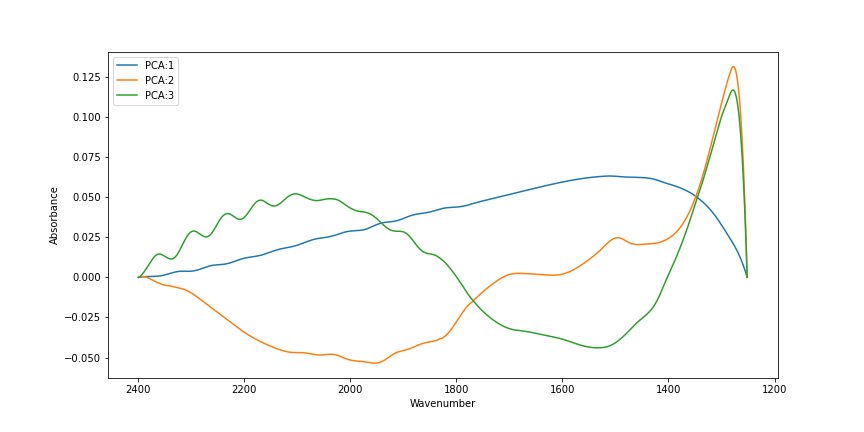
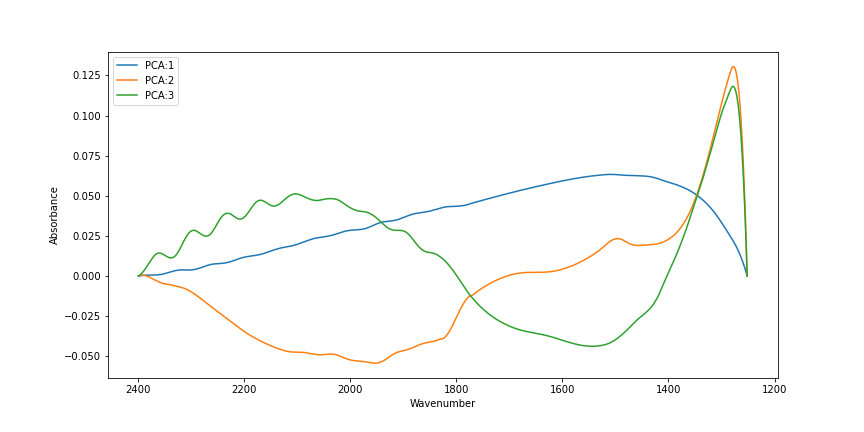
Adjusting fit on water peak replacement baseline

diff --git a/PCA_Baseline_vs_H20.py b/PCA_Baseline_vs_H20.py
@@ -124,7 +124,7 @@ ax.invert_xaxis()
 ax.set_xlabel('Wavenumber')
 ax.set_ylabel('Absorbance')
 #%%
-#Data = Smoothed
+Data = Smoothed
 # %%
 # Calculates the Principle components
 pca = PCA(4, ) # Number of PCA vectors to calculate 
@@ -203,7 +203,8 @@ ax.set_ylabel('Absorbance')
 plt.savefig('PCA1_plot.png')
 
 # %%
-columns = ["PCA "+ str(x) for x in range(1,11)]
+# This needs to be rewritten to work with water removed peaks
+columns = ["PCA "+ str(x) for x in range(1,4)]
 PCA_reduced_data_df = pd.DataFrame(reduced_data, index = frame.columns,columns=columns )
 
 chem_data_path = '/Users/henry/Python Files/Basalt Carbonate Baselines/Dans_Baselinefiles/Databasefiles/mi_data_select.csv'
@@ -259,7 +260,7 @@ def H2O_peak_cut(df, wn_cut_low, wn_cut_high, return_DF = False):
     return  No_Peaks_Wn, No_Peaks_Data
 
 # %%
-wn_cut_low, wn_cut_high = (1550, 1750)
+wn_cut_low, wn_cut_high = (1500, 1800)
 
 Full_No_Peaks_Wn, Full_No_Peaks_Values = H2O_peak_cut(H2O_frame_select, wn_cut_low, wn_cut_high)
 
@@ -367,7 +368,7 @@ for spec in Full_No_Peaks_Values.T:
 
 # %%
 
-spec_idx = 5
+spec_idx = 10
 
 fig, ax = plt.subplots(figsize = (12,6))
 plt.plot(Wavenumber, No_H2O_baseline[spec_idx], label= "No Water Baseline")
@@ -381,11 +382,11 @@ ax.set_ylabel('Absorbance')
 
 # %%
 
-No_H2O_baseline_df = pd.DataFrame(np.array(No_H2O_baseline)[:,:,0].T, index = Wavenumber[0], columns= H2O_frame_select.columns)
+No_H2O_baseline_df = pd.DataFrame(np.array(No_H2O_baseline)[:,:,0].T, index = Wavenumber, columns= H2O_frame_select.columns)
 
 H2O_Peaks = H2O_frame_select - No_H2O_baseline_df
 
-cutout = No_H2O_baseline_df[1500:1800]
+cutout = No_H2O_baseline_df[wn_cut_low:wn_cut_high]
 
 smooth_cutout = np.apply_along_axis(savgol_filter,0,cutout)
 
@@ -395,19 +396,31 @@ fig, ax = plt.subplots(figsize=(12,6))
 plt.plot(cutout.index, smooth_cutout)
 plt.plot(cutout)
 #%%
-offset_1500 = H2O_frame_select.loc[1500:1501] - smooth_cutout_df.loc[1500:1501]
+offset_1500 = H2O_frame_select.loc[wn_cut_low:wn_cut_low+1] - smooth_cutout_df.loc[wn_cut_low:wn_cut_low+1]
 
-offset_1800 = H2O_frame_select.loc[1799:1800] - smooth_cutout_df.loc[1799:1800]
+offset_1800 = H2O_frame_select.loc[wn_cut_high-1:wn_cut_high] - smooth_cutout_df.loc[wn_cut_high-1:wn_cut_high]
 
-slope = (offset_1800.values - offset_1500.values)/ (1800-1500)
-cutout_tilt = np.tile(np.arange(0, len(cutout.index)),(len(cutout.columns),1))
+slope = (offset_1800.values - offset_1500.values)/ (wn_cut_high-wn_cut_low)
+cutout_tilt = np.tile(np.arange(0, len(cutout.index)) - len(cutout.index)/2,(len(cutout.columns),1))
+
 stitch_adjust = pd.DataFrame(np.multiply(slope, cutout_tilt.T ) + offset_1500.values, index = cutout.index, columns = cutout.columns)
 
 cut_adjusted = smooth_cutout_df + stitch_adjust
 
-Peaks_removed_full_DF = H2O_frame_select.drop(H2O_frame_select.loc[1500:1800].index).append(cut_adjusted,)
-Peaks_removed_full_DF.sort_index(inplace=True)
+offset_1500_2 = H2O_frame_select.loc[wn_cut_low:wn_cut_low+1] - cut_adjusted.loc[wn_cut_low:wn_cut_low+1]
 
+offset_1800_2 = H2O_frame_select.loc[wn_cut_high-1:wn_cut_high] - cut_adjusted.loc[wn_cut_high-1:wn_cut_high]
+
+
+
+fig, ax = plt.subplots(figsize = (12,6))
+#plt.plot(cut_adjusted)
+plt.plot(stitch_adjust)
+
+#%%
+Peaks_removed_full_DF = H2O_frame_select.drop(H2O_frame_select.loc[wn_cut_low:wn_cut_high].index).append(cut_adjusted,)
+Peaks_removed_full_DF.sort_index(inplace=True)
+plt.plot(Peaks_removed_full_DF)
 #%%
 
 def savgol_filter_short(x):
@@ -417,6 +430,16 @@ Peaks_removed_full = Peaks_removed_full_DF.apply( func = signal.savgol_filter, a
 Peaks_removed_full = pd.DataFrame(Peaks_removed_full, index = Peaks_removed_full_DF.index, columns = Peaks_removed_full_DF.columns) 
 Data_init = Peaks_removed_full.values
 
+#%%
+fig, ax = plt.subplots(figsize = (12,6))
+plt.plot(Peaks_removed_full_DF, marker='o', markersize= 3, linestyle=None)
+ax.set_xlim(1750, 1850)
+ax.set_ylim(0.3,0.5)
+
+fig, ax = plt.subplots(figsize = (12,6))
+plt.plot(Peaks_removed_full_DF, marker='o', markersize= 1, linestyle=None)
+ax.set_xlim(1450, 1550)
+ax.set_ylim(0.3,0.5)
 # In order to stitch I need to have the yint from offset_1500 and add 
 #gh = cutout_tilt * slope + smooth_cutout
 #Data = H2O_Peaks.values
